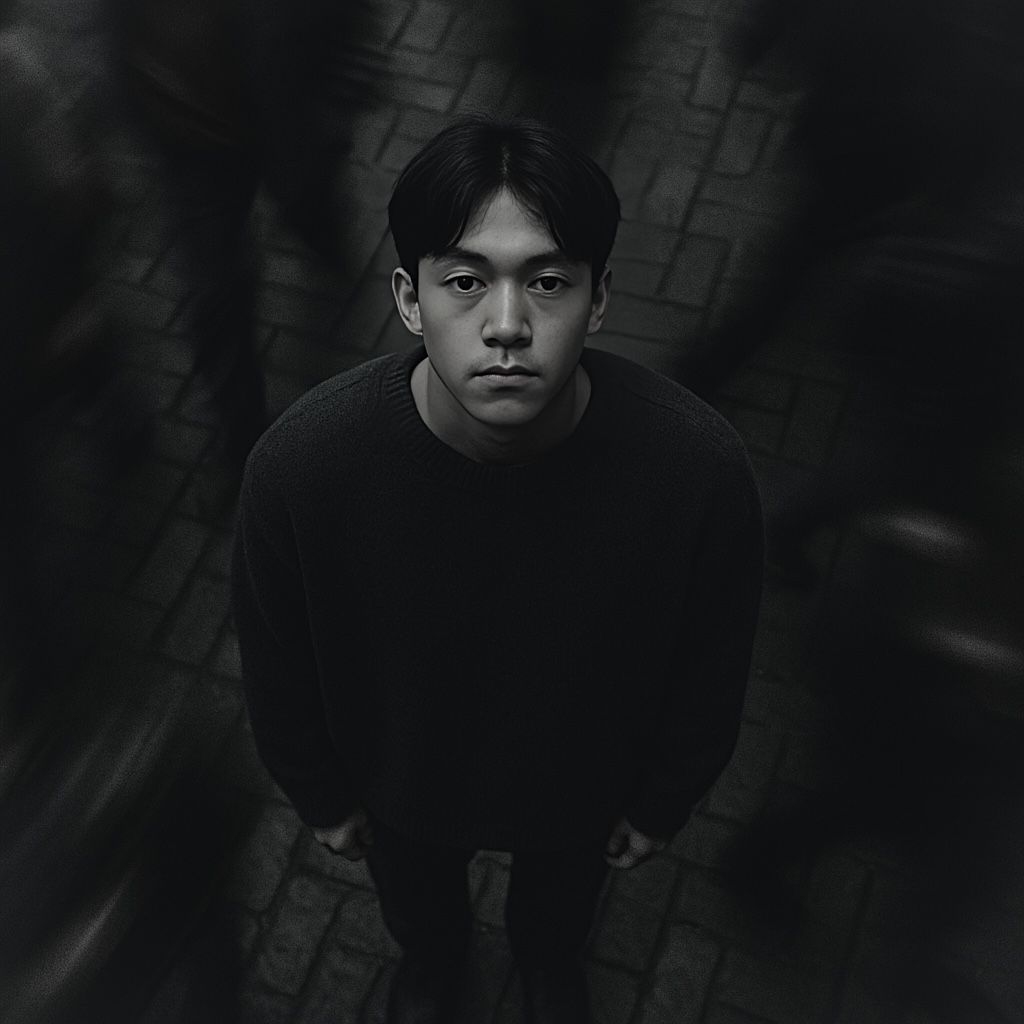
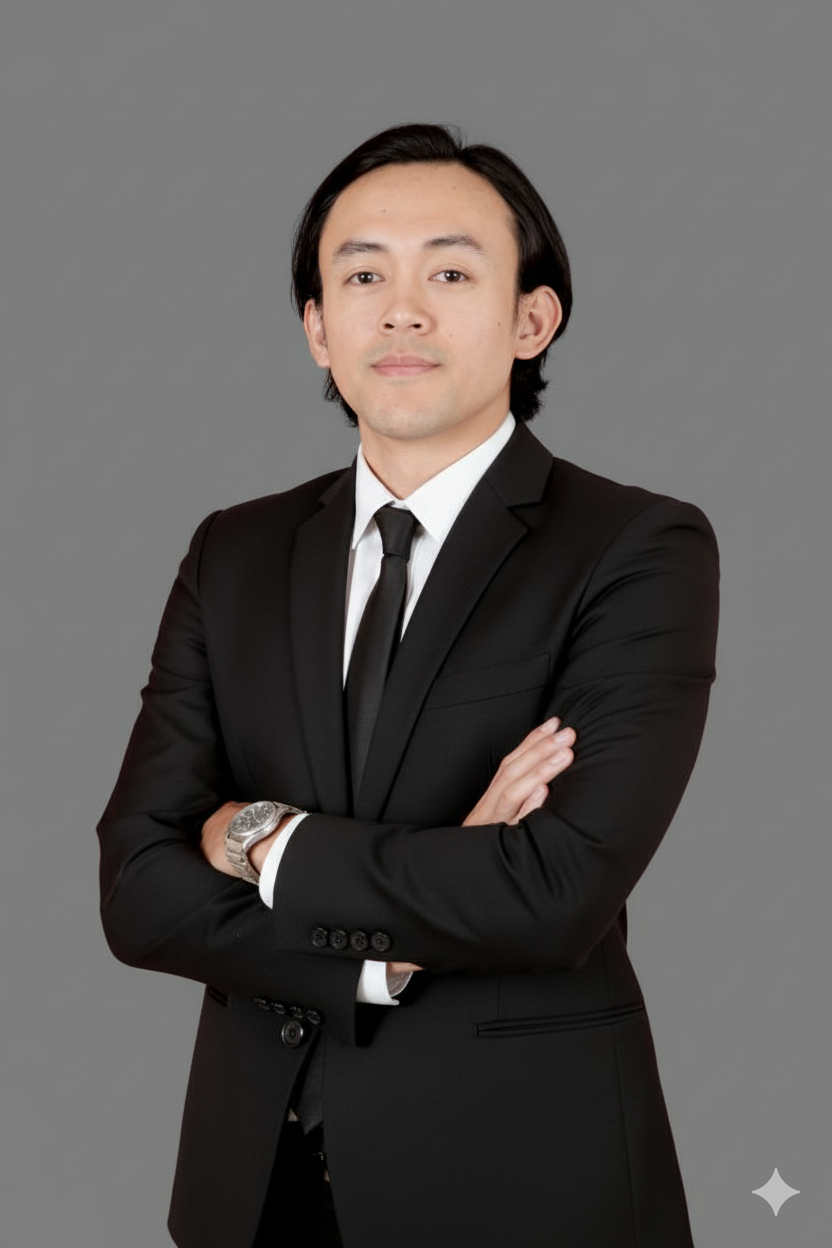
change pict,add cert

diff --git a/src/components/Main.tsx b/src/components/Main.tsx
@@ -15,14 +15,14 @@ function Main() {
         <div className="content">
           <div className="social_icons">
             <a href="https://github.com/Fakur19" target="_blank" rel="noreferrer"><GitHubIcon /></a>
-            <a href="https://www.linkedin.com/in/fajar-kurnia-b8a556234/" target="_blank" rel="noreferrer"><LinkedInIcon /></a>
+            <a href="https://www.linkedin.com/in/fajar-k" target="_blank" rel="noreferrer"><LinkedInIcon /></a>
           </div>
           <h1>Fajar Kurnia</h1>
-          <p>Data Scientist</p>
+          <p>Data Analyst | Business Intelligence</p>
 
           <div className="mobile_social_icons">
             <a href="https://github.com/Fakur19" target="_blank" rel="noreferrer"><GitHubIcon /></a>
-            <a href="https://www.linkedin.com/in/fajar-kurnia-b8a556234/" target="_blank" rel="noreferrer"><LinkedInIcon /></a>
+            <a href="https://www.linkedin.com/in/fajar-k" target="_blank" rel="noreferrer"><LinkedInIcon /></a>
           </div>
         </div>
       </div>

diff --git a/src/components/Certifications.tsx b/src/components/Certifications.tsx
@@ -3,6 +3,7 @@ import '../assets/styles/Certifications.scss';
 import googleLogo from '../assets/images/google.png';
 import sapLogo from '../assets/images/sap.png';
 import ciscoLogo from '../assets/images/cisco.png';
+import bnspLogo from '../assets/images/bnsp.png';
 
 const certifications = [
   {
@@ -28,6 +29,12 @@ const certifications = [
     description: 'Gained foundational knowledge in SAP S/4HANA Financial Accounting, covering key concepts and processes.',
     link: 'http://check.upp-sap.com:88/validasi%20sertifikat/hasil%20query.php?id=30303030303131363033303030313036&view=View', // Replace with actual link
     logo: sapLogo
+  },
+  {
+    name: 'Database Administrator',
+    description: 'Nationally certified professional with proven competency in database management, security, and performance optimization.',
+    // link: '', no link for now
+    logo: bnspLogo
   }
 ];
 

diff --git a/src/assets/styles/Main.scss b/src/assets/styles/Main.scss
@@ -50,11 +50,18 @@
 }
 
 .about-section .image-wrapper {
-    z-index: 2;
-    img {
-        width: 150px;
-        border-radius: 50%;
-    }
+  z-index: 2;
+  width: 180px;
+  height: 180px;
+  border-radius: 50%;
+  overflow: hidden;
+
+  img {
+    width: 100%;
+    height: 100%;
+    object-fit: cover;
+    object-position: 50% 25%; /* Adjust the '25%' value as needed */
+  }
 }
 
 .about p {
